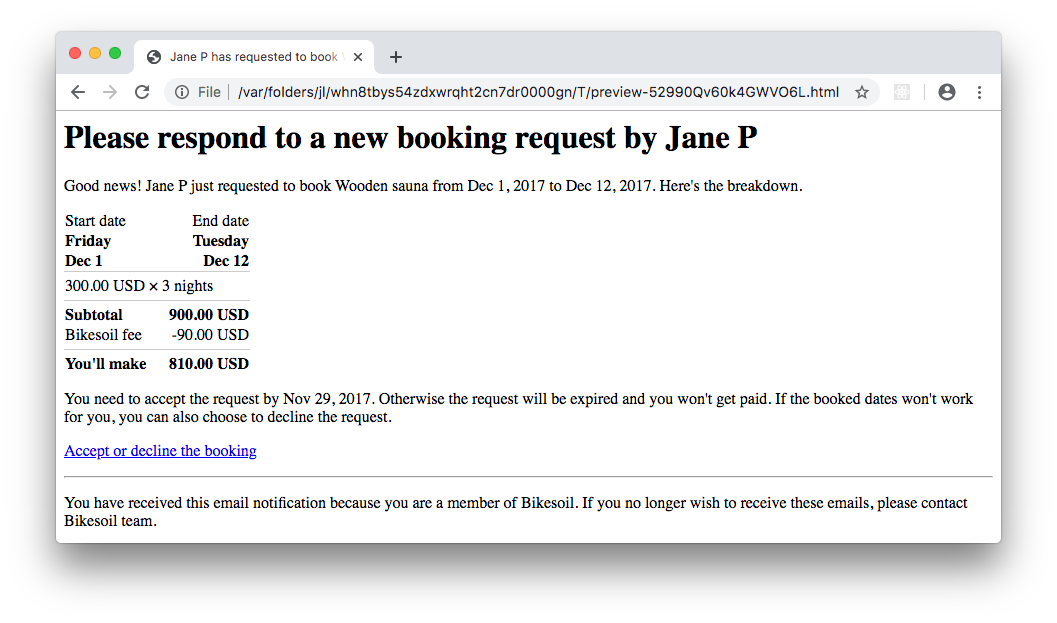
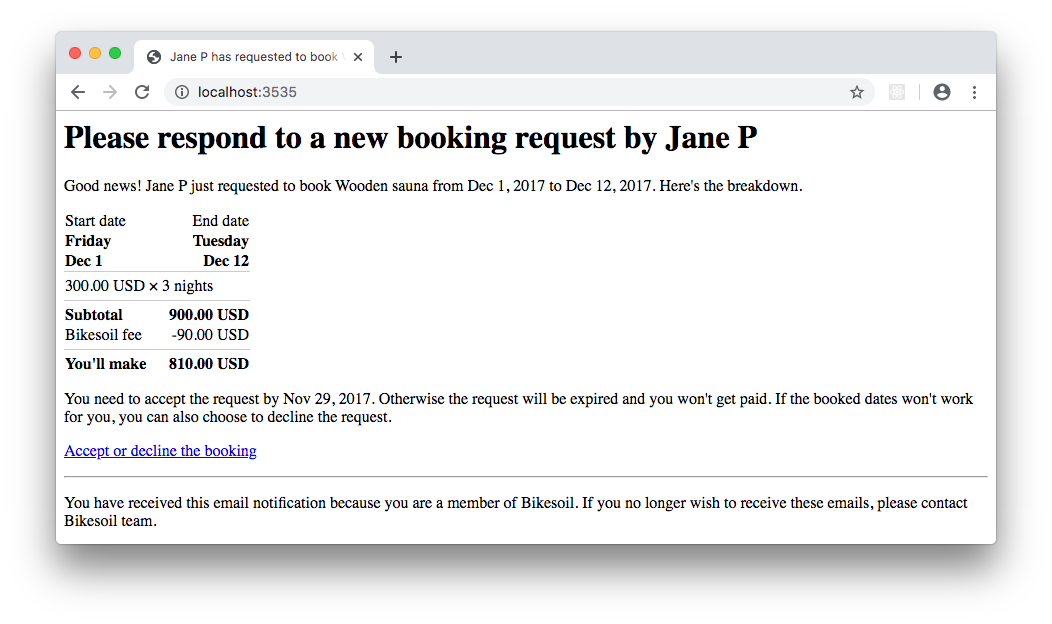
Update text and screenshots

diff --git a/src/docs/tutorials/04-edit-email-templates-with-flex-cli/index.md b/src/docs/tutorials/04-edit-email-templates-with-flex-cli/index.md
@@ -1,7 +1,7 @@
 ---
 title: Edit email templates with Flex CLI
 slug: edit-email-templates-with-flex-cli
-updated: 2019-11-18
+updated: 2019-11-22
 category: tutorials
 ingress:
   This tutorial shows you how to edit email templates with Flex CLI.
@@ -197,8 +197,9 @@ email using your local template files. To preview the change above:
 flex-cli notifications preview --template preauth-nightly-booking/templates/new-booking-request -m my-test-marketplace
 ```
 
-The command will render the given template and open a browser tab with
-the output HTML:
+The command will render the given template using
+[a sample data (context)](#sample-email-context) and open a browser tab
+with the output HTML:
 
 ![Email preview in a browser](./preview-browser.png)
 
@@ -209,9 +210,13 @@ version to the terminal:
 
 You can now use your normal browser developer tooling to test changes to
 the template and verify how the responsiveness of the content works.
+When you make changes to the template, you can just refresh the browser
+and see the updated preview.
 
-If you want to verify the email in various email software, you can also
-send the test preview email:
+## Sending a preview email
+
+If you want to verify the email in an email client software, you can
+also send the test preview email:
 
 ```bash
 flex-cli notifications send --template preauth-nightly-booking/templates/new-booking-request -m my-test-marketplace
@@ -222,7 +227,7 @@ in logging in to the CLI:
 
 ![Email preview in inbox](./preview-inbox.png)
 
-### Using custom context variables in templates
+## Sample email context
 
 As you see from the previews above, the templates are rendered with the
 fixed sample context. The `notifications preview` and
@@ -254,8 +259,10 @@ Now you will see the preview with the context data that you edited:
 
 ![Email preview with custom context](./preview-context.png)
 
-You can use the sample JSON file as a base and test how your templates
-behave with different content or custom extended data etc.
+You can use the
+[sample-template-context.json](/sample-template-context.json) file as a
+base and test how your templates behave with different content or custom
+extended data etc.
 
 ## Push new version
 
